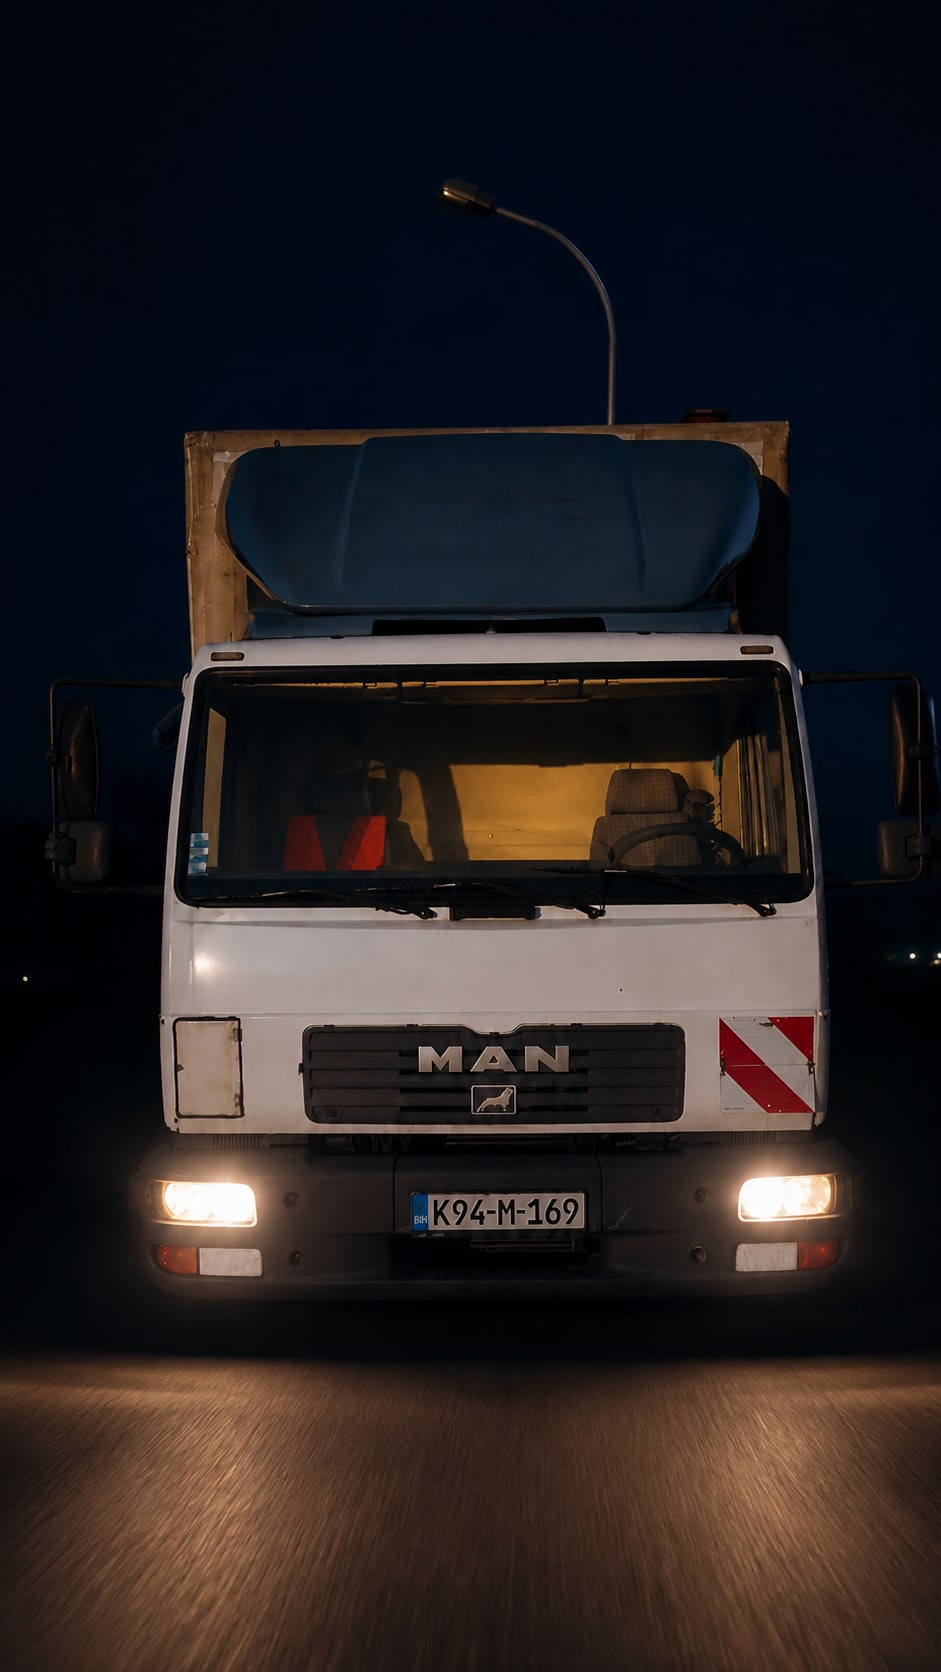
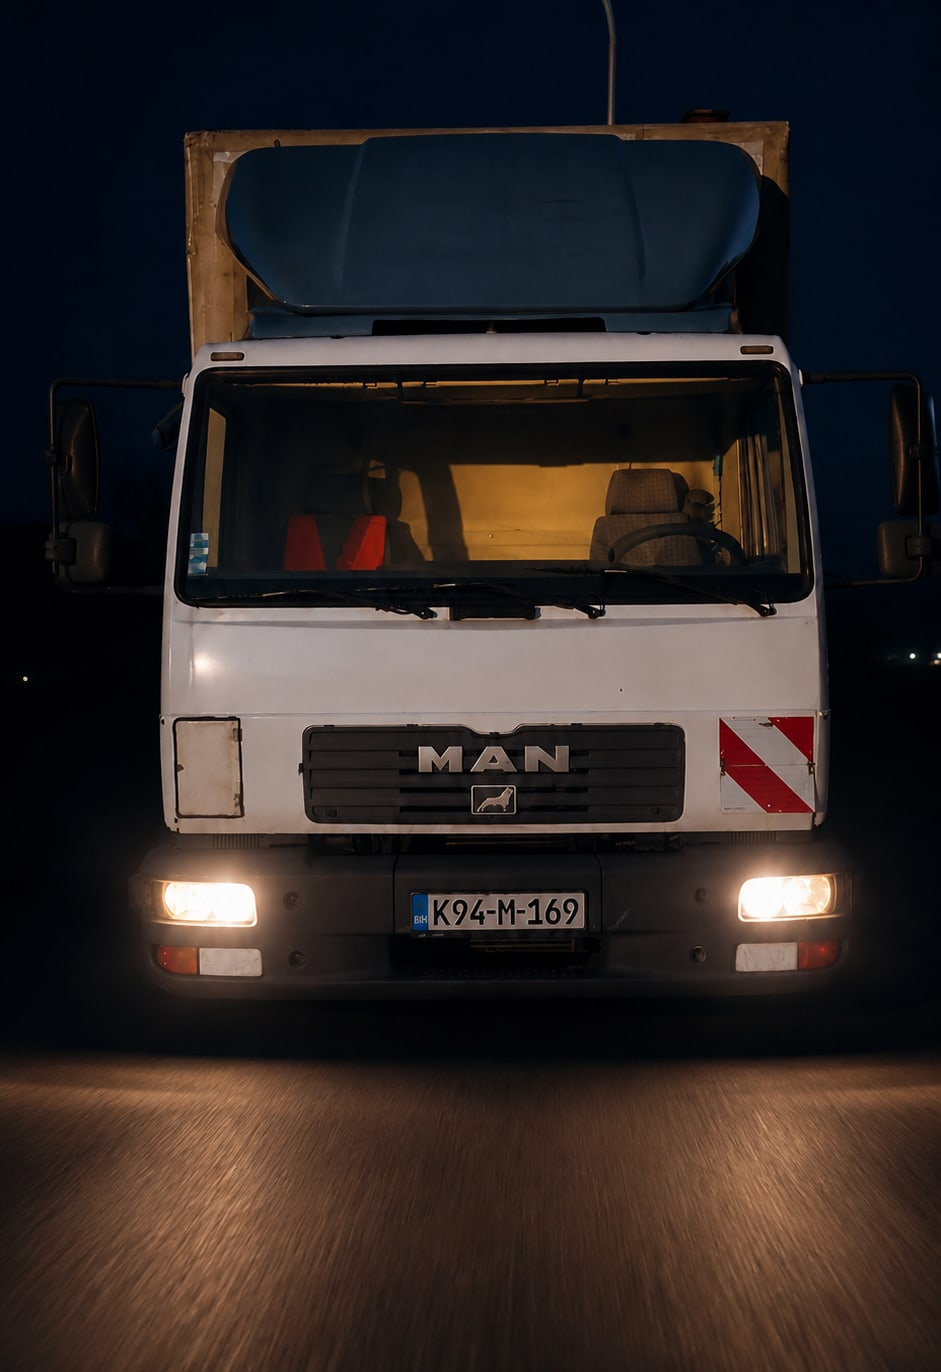
Tighter mobile hero crop, static map instead of live embed, redesigned footer
Hero (mobile): re-cropped the client's mobile photo to drop most of the
empty sky above the truck (top ~18% removed) so the truck sits right
under the nav bar instead of leaving a tall empty gap, per feedback.

Relations map: replaced the live Google embed + drawn route entirely with
a single static map image the client supplied (their own screenshot,
location marker already on it) — simpler, and finally something this
sandbox can actually render and verify locally, unlike the live embed.
Dropped the crop-transform/route-SVG machinery that existed only to work
around that embed.

Footer: full redesign per the client's spec — the complete logo (icon +
"JPS MADŽAR TRANSPORT" wordmark baked into the image, not just the
compact icon used in the nav) instead of icon+separate text, "Profesionalni
teretni transport" line dropped, everything centered in one column: logo,
then address (now a clickable Google Maps directions link) / phone /
Instagram each on its own row with its icon, then copyright last.

Claude-Session: https://claude.ai/code/session_016q9L8BGgWcvfZUJ1iBRoKB

diff --git a/index.html b/index.html
@@ -126,7 +126,7 @@
               class="hero__art-img"
               src="/hero-mobile.jpg"
               width="941"
-              height="1672"
+              height="1372"
               alt=""
               loading="eager"
               fetchpriority="high"
@@ -273,36 +273,21 @@
             </a>
           </div>
           <div class="relations__map" data-reveal>
-            <!--
-              Prava mapa (Google Maps embed, centrirana na BiH) sa
-              autorskom simuliranom linijom rute preko nje, iscrtanom kroz
-              stvarne gradove na koridoru Prijedor–Travnik–Zenica–Visoko–
-              Sarajevo (primjer domaće relacije — ilustrativna linija, ne
-              Google-om izračunata ruta). Stranica i dalje javno prikazuje
-              samo "Bosna i Hercegovina".
-
-              .relations__map-scaled je uvećan i pomjeren (isti transform
-              za iframe i SVG zajedno, pa ostaju poravnati) da bi Google-ov
-              "Open in Maps" chip — dio je same embed stranice, nema
-              zvaničnog parametra da se sakrije — bio odsječen van vidljive
-              oblasti kontejnera. Koordinate rute su izmjerene iz stvarnog
-              screenshot-a ovog istog embed-a (isti q=/z= parametri).
-            -->
-            <div class="relations__map-embed" aria-hidden="true">
-              <div class="relations__map-scaled">
-                <iframe
-                  src="https://maps.google.com/maps?q=Bosna+i+Hercegovina&z=8&output=embed"
-                  title=""
+            <!-- Statična mapa (klijentov screenshot) umjesto ranijeg live
+                 embed-a + iscrtane rute — jednostavnije, na eksplicitan
+                 zahtjev klijenta. -->
+            <div class="relations__map-embed">
+              <picture>
+                <source srcset="/relations-map.webp" type="image/webp" />
+                <img
+                  src="/relations-map.jpg"
+                  width="1320"
+                  height="1104"
+                  alt="Mapa Bosne i Hercegovine sa oznakom lokacije"
                   loading="lazy"
-                  referrerpolicy="no-referrer-when-downgrade"
-                  tabindex="-1"
-                ></iframe>
-                <svg class="relations__route" viewBox="0 0 400 300" preserveAspectRatio="none">
-                  <path d="M72 90 C80.3 84.2,102.7 58,122 55 C141.3 52,169 68.7,188 72 C207 75.3,220 67,236 75 C252 83,269.3 107.5,284 120 C298.7 132.5,317.3 145,324 150" />
-                  <circle cx="72" cy="90" r="6" />
-                  <circle cx="324" cy="150" r="7" />
-                </svg>
-              </div>
+                  decoding="async"
+                />
+              </picture>
             </div>
             <div class="relations__endpoint">
               <svg viewBox="0 0 24 24" fill="none" stroke="currentColor" stroke-width="2" stroke-linecap="round" stroke-linejoin="round" aria-hidden="true">
@@ -447,34 +432,50 @@
     </main>
 
     <footer class="site-footer">
-      <a href="#hero" class="site-footer__brand">
+      <a href="#hero" class="site-footer__logo">
         <picture>
-          <source srcset="/logo-icon.webp" type="image/webp" />
+          <source srcset="/logo-full.webp" type="image/webp" />
           <img
-            class="brand-mark"
-            src="/logo-icon.png"
-            width="586"
-            height="240"
-            alt=""
+            src="/logo-full.png"
+            width="496"
+            height="320"
+            alt="JPS Madžar"
             loading="lazy"
             decoding="async"
           />
         </picture>
-        JPS Madžar
       </a>
       <!-- <address> grupiše kontakt/adresu u jedan semantički blok (dobra
            praksa za footer NAP podatke) — vidi i JSON-LD address u <head>. -->
-      <address class="site-footer__meta">
-        <span>Profesionalni teretni transport</span>
-        <span aria-hidden="true">·</span>
-        <span>Rudi Čajaveca 8, 79000 Prijedor, BiH</span>
-        <span aria-hidden="true">·</span>
-        <a href="tel:+38766122171" class="figures">+387 66 122 171</a>
-        <span aria-hidden="true">·</span>
-        <a class="site-footer__social" href="https://www.instagram.com/jps_madzar?igsi=MXBiNm1zemk2YXI5Ng==" target="_blank" rel="noopener noreferrer">@jps_madzar</a>
-        <span aria-hidden="true">·</span>
-        <span>&copy; <span id="year"></span> JPS Madžar</span>
+      <address class="site-footer__info">
+        <a
+          class="site-footer__row"
+          href="https://www.google.com/maps/dir/?api=1&destination=Rudi+%C4%8Cajaveca+8,+79000+Prijedor,+Bosna+i+Hercegovina"
+          target="_blank"
+          rel="noopener noreferrer"
+        >
+          <svg viewBox="0 0 24 24" fill="none" stroke="currentColor" stroke-width="2" stroke-linecap="round" stroke-linejoin="round" aria-hidden="true">
+            <path d="M12 22s7-6.6 7-12a7 7 0 1 0-14 0c0 5.4 7 12 7 12Z" />
+            <circle cx="12" cy="10" r="2.5" />
+          </svg>
+          Rudi Čajaveca 8, 79000 Prijedor
+        </a>
+        <a class="site-footer__row" href="tel:+38766122171">
+          <svg viewBox="0 0 24 24" fill="none" stroke="currentColor" stroke-width="1.8" stroke-linecap="round" stroke-linejoin="round" aria-hidden="true">
+            <path d="M6.6 10.8c1.5 3 3.9 5.4 6.9 6.9l2.3-2.3c.3-.3.7-.4 1.1-.3 1.2.4 2.5.6 3.8.6.6 0 1.1.5 1.1 1.1V21c0 .6-.5 1.1-1.1 1.1C10.7 22.1 1.9 13.3 1.9 2.4 1.9 1.8 2.4 1.3 3 1.3h3.2c.6 0 1.1.5 1.1 1.1 0 1.3.2 2.6.6 3.8.1.4 0 .8-.3 1.1L6.6 10.8Z"/>
+          </svg>
+          <span class="figures">+387 66 122 171</span>
+        </a>
+        <a class="site-footer__row" href="https://www.instagram.com/jps_madzar?igsi=MXBiNm1zemk2YXI5Ng==" target="_blank" rel="noopener noreferrer">
+          <svg viewBox="0 0 24 24" fill="none" stroke="currentColor" stroke-width="1.7" stroke-linecap="round" stroke-linejoin="round" aria-hidden="true">
+            <rect x="3" y="3" width="18" height="18" rx="5" />
+            <circle cx="12" cy="12" r="4" />
+            <circle cx="17.4" cy="6.6" r="1" fill="currentColor" stroke="none" />
+          </svg>
+          jps_madzar
+        </a>
       </address>
+      <p class="site-footer__copy">&copy; <span id="year"></span> JPS Madžar</p>
     </footer>
 
     <nav class="mobile-bar" aria-label="Brzi kontakt">

diff --git a/src/style.css b/src/style.css
@@ -740,52 +740,12 @@ section {
   overflow: hidden;
 }
 
-/* Scaled up and shifted so Google's "Open in Maps" chip (top-left, part of
-   the embed page itself — no parameter hides it) lands outside the crop.
-   iframe and SVG live inside this one transformed box so they scale and
-   shift together and stay aligned; their own coordinates are unchanged. */
-.relations__map-scaled {
-  position: absolute;
-  top: -16%;
-  left: -11%;
-  width: 122%;
-  height: 122%;
-}
-
-.relations__map-scaled iframe {
+.relations__map-embed img {
   position: absolute;
   inset: 0;
   width: 100%;
   height: 100%;
-  border: 0;
-  pointer-events: none;
-  /* Re-tones Google's default light basemap toward the site's dark ground
-     (no API key available to request a dark-styled map directly). */
-  filter: invert(90%) hue-rotate(180deg) contrast(0.88) brightness(0.95) saturate(0.9);
-}
-
-/* Simulated route drawn over the real map — avoids Google's directions
-   info-panel, which the classic no-API-key embed can't be told to hide. */
-.relations__route {
-  position: absolute;
-  inset: 0;
-  width: 100%;
-  height: 100%;
-  pointer-events: none;
-}
-
-.relations__route path {
-  fill: none;
-  stroke: var(--color-signal);
-  stroke-width: 3;
-  stroke-linecap: round;
-  stroke-dasharray: 9 9;
-}
-
-.relations__route circle {
-  fill: var(--color-signal);
-  stroke: var(--color-bg-sunk);
-  stroke-width: 2;
+  object-fit: cover;
 }
 
 .relations__endpoint {
@@ -1008,49 +968,58 @@ section {
    ========================================================================== */
 
 .site-footer {
-  padding: 2.5rem var(--gutter) 6rem;
+  padding: 3rem var(--gutter) 6rem;
   display: flex;
   flex-direction: column;
-  gap: 1.25rem;
+  align-items: center;
+  text-align: center;
+  gap: 1.5rem;
   border-top: 1px solid var(--color-line);
   background: var(--color-bg-sunk);
 }
 
-@media (min-width: 640px) {
+@media (min-width: 720px) {
   .site-footer {
-    padding-bottom: 2.5rem;
-    flex-direction: row;
-    align-items: center;
-    justify-content: space-between;
+    padding-bottom: 3rem;
   }
 }
 
-.site-footer__brand {
-  display: flex;
-  align-items: center;
-  gap: 0.6rem;
-  font-family: var(--font-display);
-  font-weight: 700;
-  text-transform: uppercase;
-  letter-spacing: 0.02em;
+.site-footer__logo img {
+  height: 3.5rem;
+  width: auto;
+  display: block;
 }
 
-.site-footer__meta {
+.site-footer__info {
   font-style: normal;
-  font-size: 0.85rem;
-  color: var(--color-ink-faint);
   display: flex;
-  flex-wrap: wrap;
-  gap: 0.4rem 0.9rem;
+  flex-direction: column;
+  align-items: center;
+  gap: 0.65rem;
 }
 
-.site-footer__meta a {
+.site-footer__row {
+  display: inline-flex;
+  align-items: center;
+  gap: 0.55rem;
+  font-size: 0.95rem;
   color: var(--color-ink-dim);
 }
 
-.site-footer__meta a:hover,
-.site-footer__social:hover {
+.site-footer__row svg {
+  width: 1.1rem;
+  height: 1.1rem;
   color: var(--color-signal);
+  flex-shrink: 0;
+}
+
+.site-footer__row:hover {
+  color: var(--color-signal);
+}
+
+.site-footer__copy {
+  font-size: 0.8rem;
+  color: var(--color-ink-faint);
 }
 
 /* ==========================================================================
